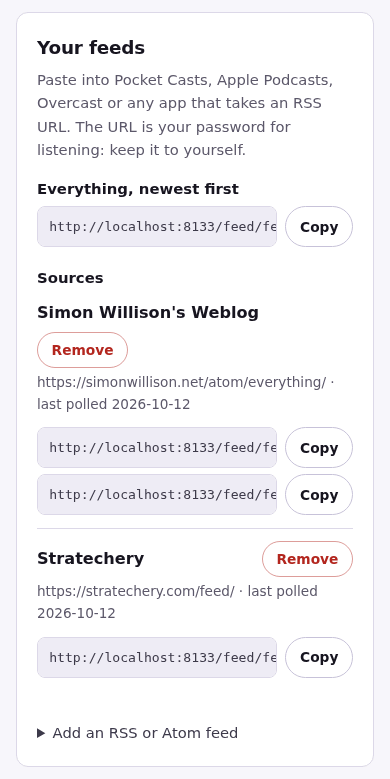
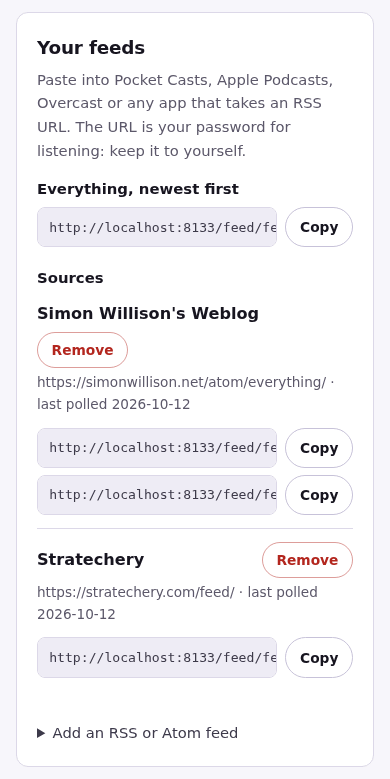
evidence(lma7): seeded green - the closers invert between control and served page
`deno task evidence --only audio-feed-lma7 --timeout 420` exits 0 in 154s wall
(149.7s of proof time) on origin/main fffb67b3.
scripts/account-mobile-layout-proof.ts passes all 19 checks: the send form's radio
group has exactly one closer, the control document puts 5 of 6 panels outside
div.wrap and the served page puts none, and at 390x844 and 320x720 every panel is
a descendant of div.wrap inset by the 16px gutter with no sideways scroll; at
1280x900 the panels sit inside the 58rem column.

The run rewrote the three captures and the README's hash/PASS lines. New bytes are
kept as truthful of today's page (same driven state, new raster) and no capture is
over 160KB, so nothing was compressed. Record hashes match the committed PNGs.

Bead: bd create for this slice returned no id twice (known intermittent drop)
Release-note: none user-visible: internal (lma7 now carries a run record from a real green run).

diff --git a/docs/evidence/audio-feed-lma7/README.md b/docs/evidence/audio-feed-lma7/README.md
@@ -21,7 +21,7 @@ The control document is the served response with the one closer flipped, so it i
 
 ```
 PASS  every instant (and the token) in the fixture is pinned, so the committed screenshots cannot drift with the clock or a random token  9 values pinned to 2026-10-12T03:30:00.000Z (the token to its fixed value)
-PASS  exactly one closer for the send form's radio group was found in the served markup, and the control flips it  served 83740 bytes closing the group with `</fieldset>`; control 83735 bytes
+PASS  exactly one closer for the send form's radio group was found in the served markup, and the control flips it  served 91805 bytes closing the group with `</fieldset>`; control 91800 bytes
 PASS  the browser is on the served /account page, not redirected to /login  pathname: /account
 PASS  ONE CLOSER IS THE WHOLE BUG: the control markup puts panels outside the page column and the served markup puts none  control: 5 of 6 outside div.wrap (feeds-h x=0 w=390, profile-h x=0 w=390, passkeys-h x=0 w=390, episodes-h x=0 w=390, rotate-h x=0 w=390); served: 0 outside
 PASS  and the escaped panel in the control sits hard against the viewport edge, which is Paul's report  feeds-h: left 0, right 0; profile-h: left 0, right 0; passkeys-h: left 0, right 0; episodes-h: left 0, right 0; rotate-h: left 0, right 0
@@ -35,8 +35,8 @@ PASS  at 320x720 EVERY section.panel is a descendant of div.wrap  send-h: inside
 PASS  at 320x720 every panel is inset by the page column's 16px gutter  send-h: left 16, right 16; feeds-h: left 16, right 16; profile-h: left 16, right 16; passkeys-h: left 16, right 16; episodes-h: left 16, right 16; rotate-h: left 16, right 16
 PASS  at 320x720 the page does not scroll sideways - measured against clientWidth and a real scrollTo, not innerWidth  scrollWidth 320 vs clientWidth 320; scrollX after scrollTo(20,0) is 0; innerWidth 320
 PASS  at 320x720 the two-column pair is ONE column (Profile stacked over Passkeys)  profile and passkeys share a left edge and stack vertically
-PASS  the 'Your feeds' panel was found on the served page to frame the screenshot  {"x":0,"y":932,"width":390,"height":779}
-PASS  at 1280x900 the panels sit inside the 58rem column, not the full window  send-h: left 185, width 896; feeds-h: left 185, width 896; profile-h: left 185, width 440; passkeys-h: left 641, width 440; episodes-h: left 185, width 896; rotate-h: left 185, width 896
+PASS  the 'Your feeds' panel was found on the served page to frame the screenshot  {"x":0,"y":1344,"width":390,"height":779}
+PASS  at 1280x900 the panels sit inside the 58rem column, not the full window  send-h: left 187, width 896; feeds-h: left 187, width 896; profile-h: left 187, width 440; passkeys-h: left 643, width 440; episodes-h: left 187, width 896; rotate-h: left 187, width 896
 PASS  at 1280x900 Profile and Passkeys pair into two columns  passkeys sits to the right of profile on the same row
 ```
 
@@ -45,6 +45,6 @@ PASS  at 1280x900 Profile and Passkeys pair into two columns  passkeys sits to t
 - `01-before-390x844.png`: the control - the served markup with the one closer reverted, framed on "Your feeds". The panel runs to both viewport edges.
 - `02-after-390x844.png`: the same frame on the served page. The panel is inset by the page column's gutter.
 - `03-after-1280x900.png`: the desktop column, where Profile and Passkeys still pair.
[6 lines of base64/hex data omitted]
